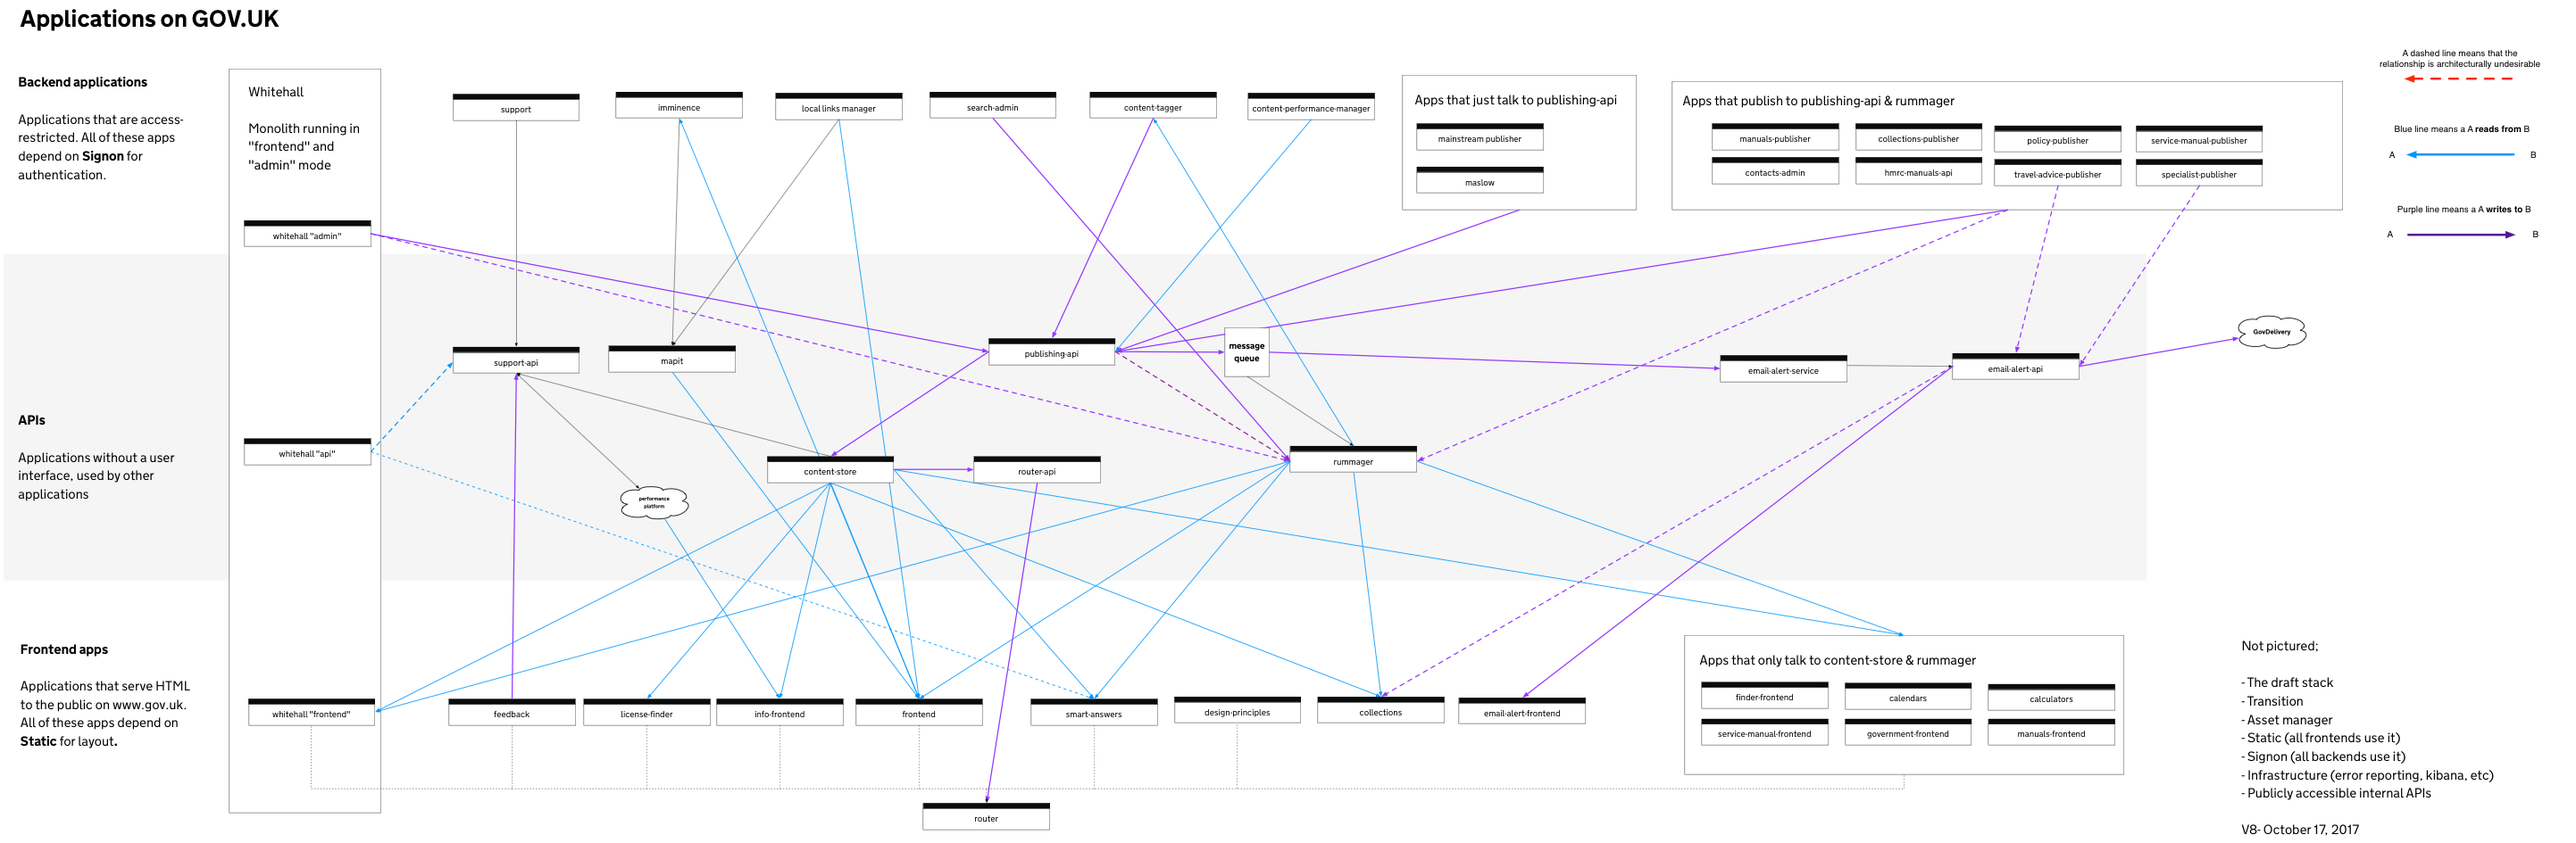
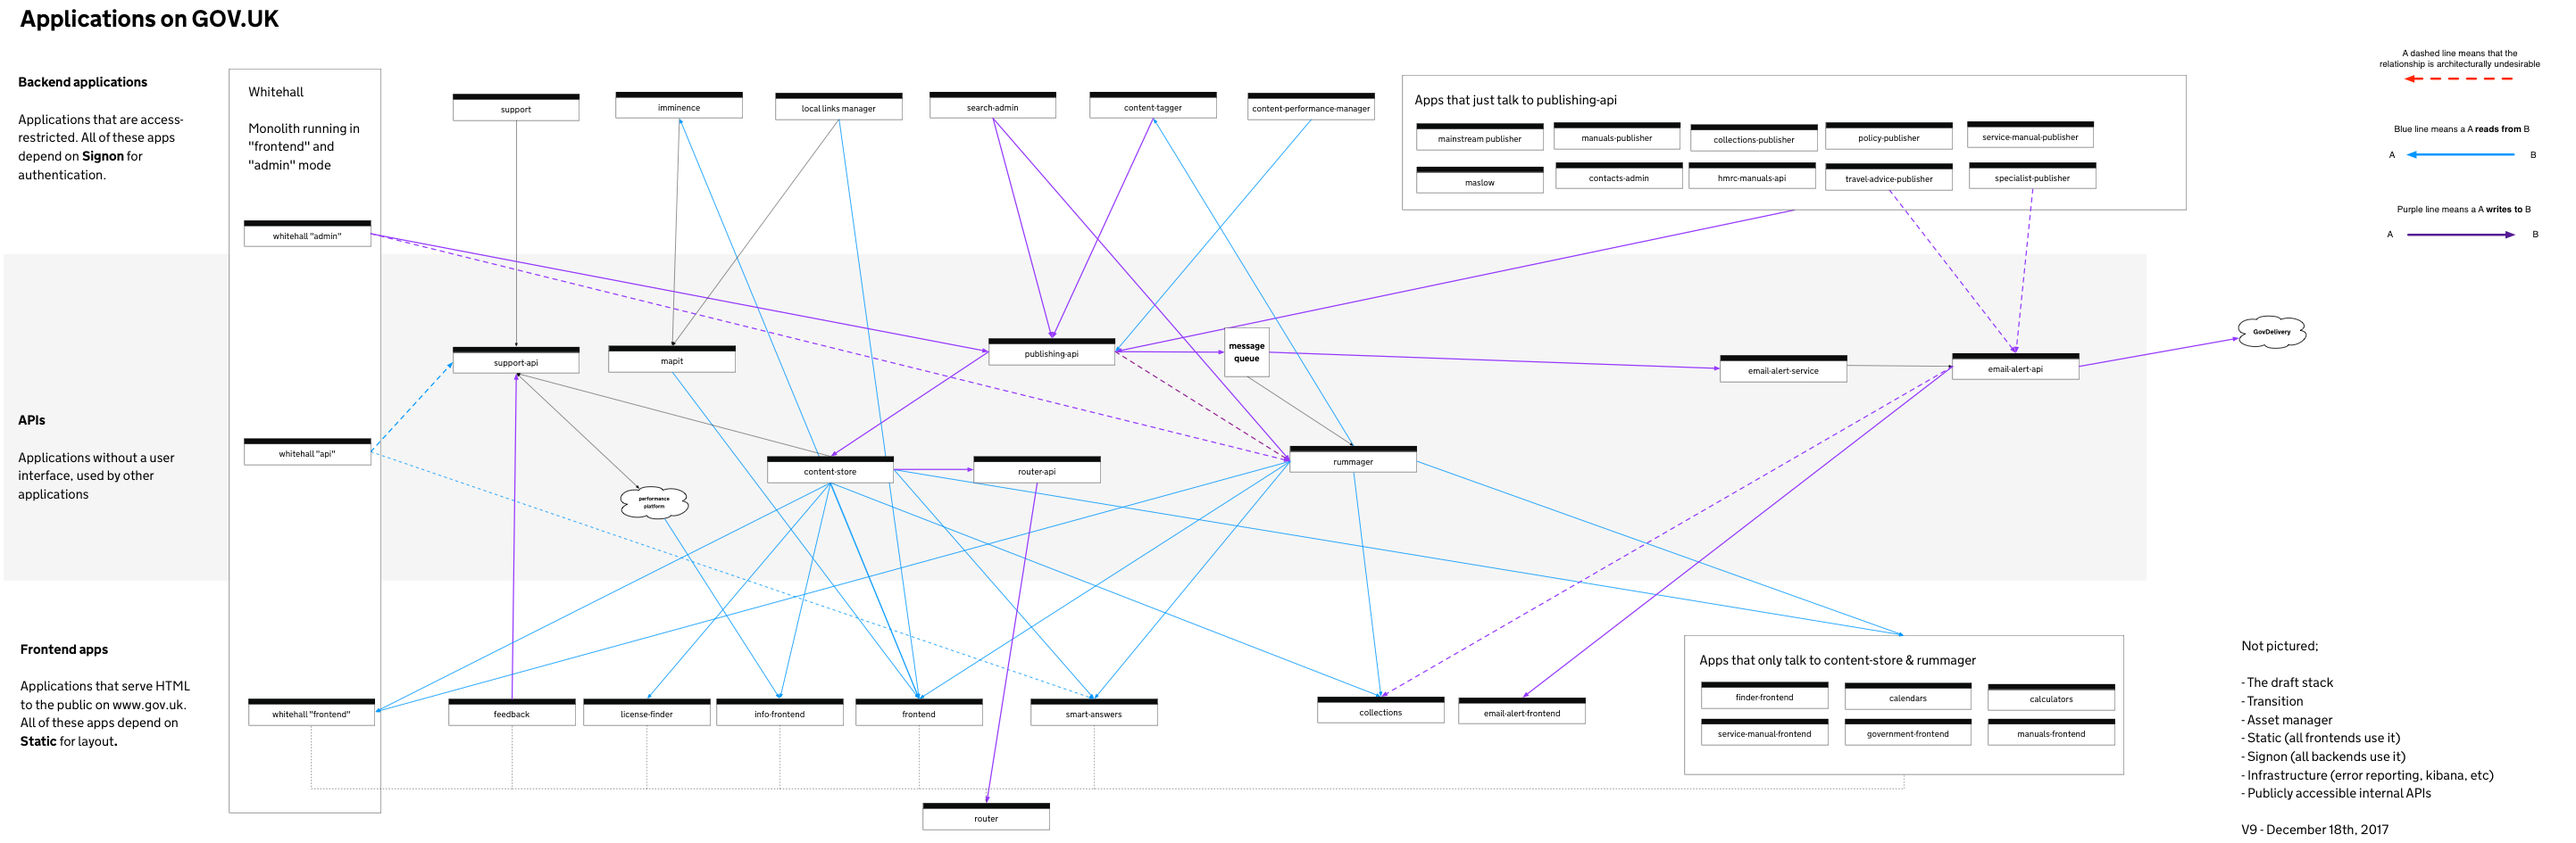
Update GOV.UK architecture diagram
- Whitehall is the only application sending things to rummager now
- Search admin is also talking to the publishing-api (for search
indexing)
- Design principles has been removed

diff --git a/source/manual/architecture.html.md b/source/manual/architecture.html.md
@@ -4,7 +4,7 @@ title: Architectural overview of GOV.UK applications
 section: Basics
 layout: manual_layout
 parent: "/manual.html"
-last_reviewed_on: 2017-10-17
+last_reviewed_on: 2017-12-18
 review_in: 2 months
 ---
 
